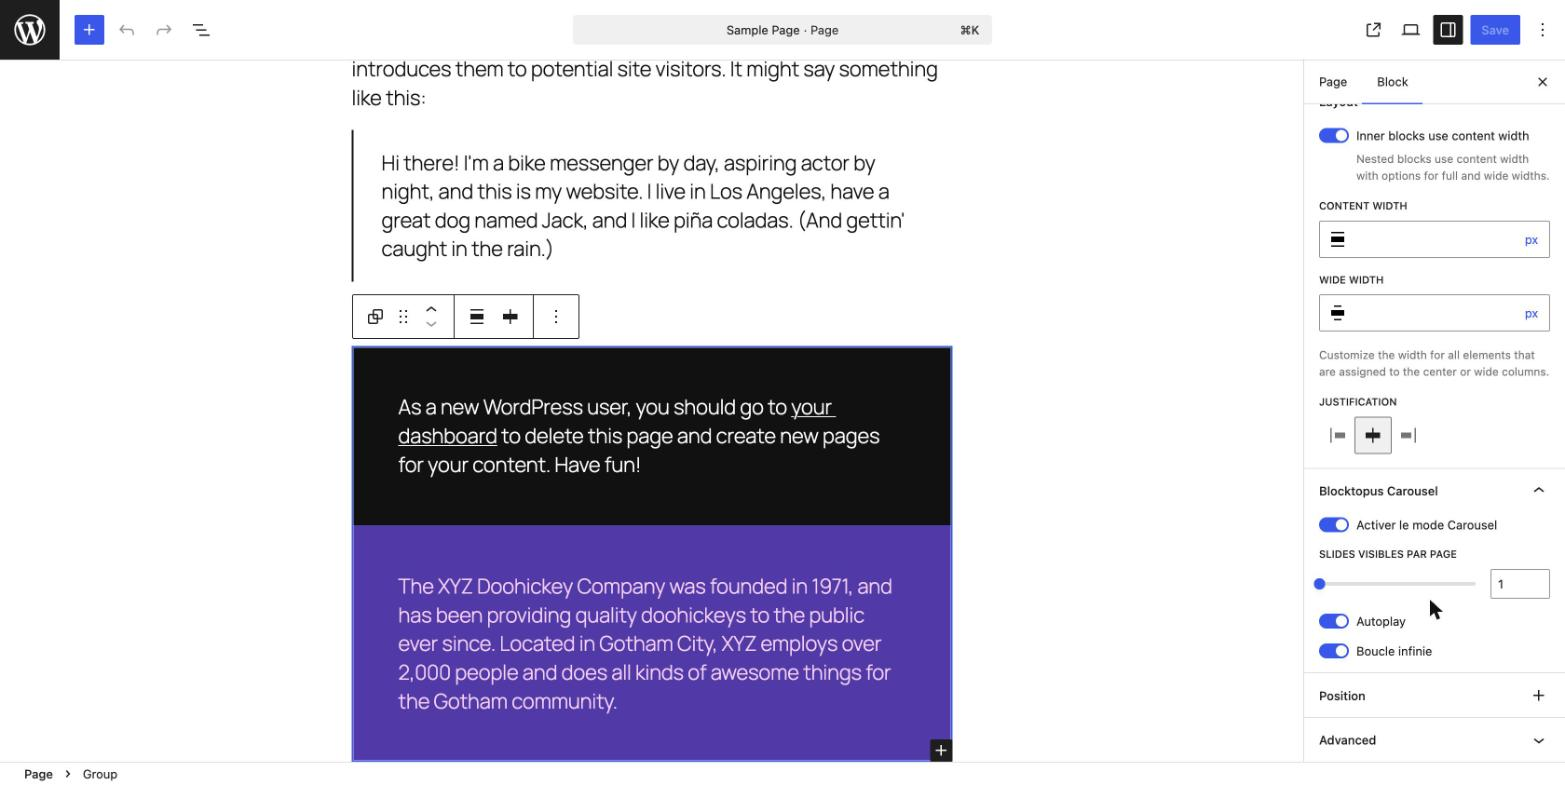
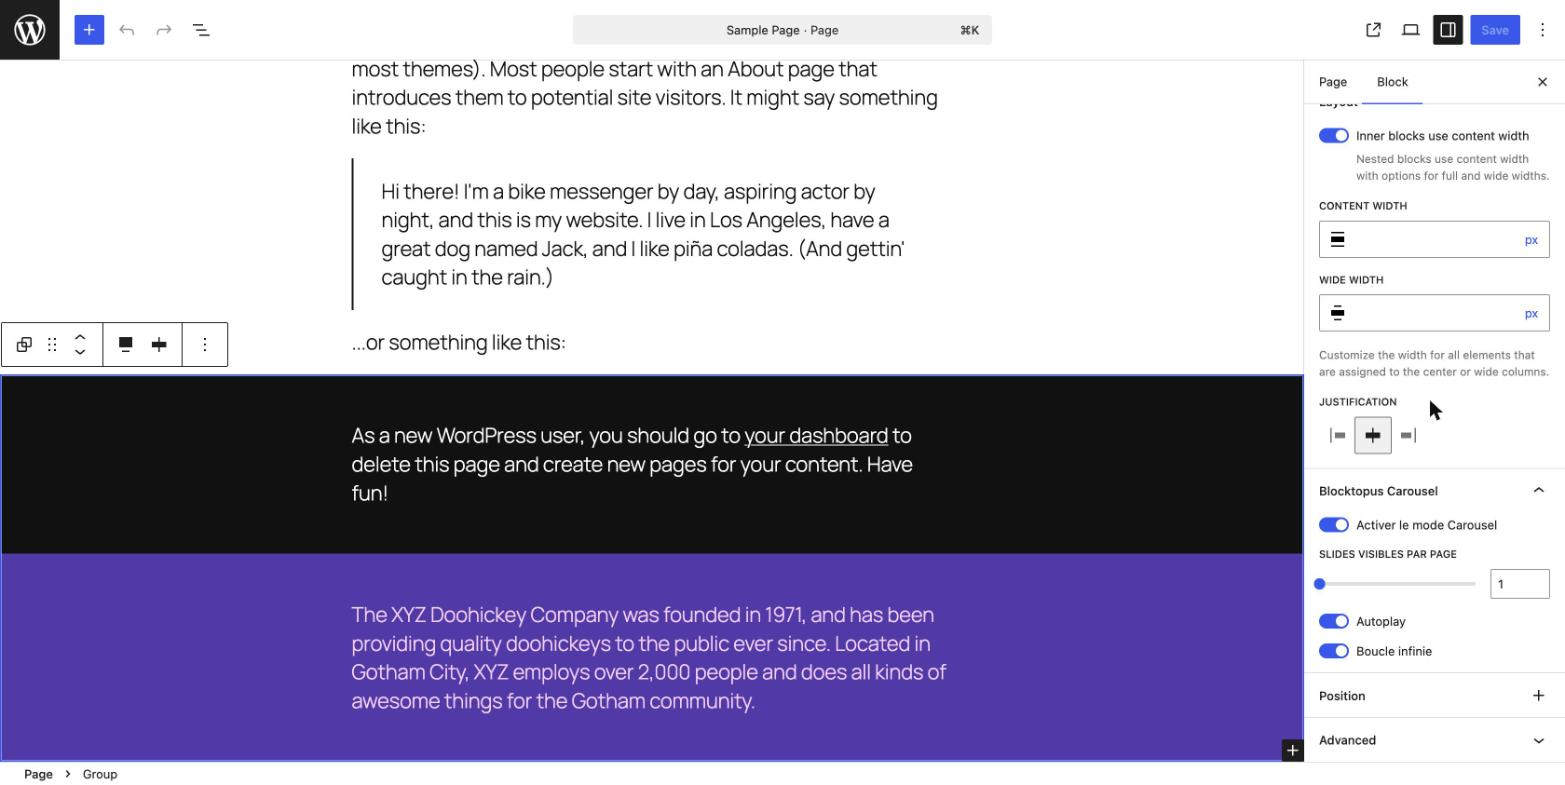
docs: reframe Blocktopus around a growing suite of modules
Drop the 'Module 1' framing in favor of positioning Carousel as the
first of a growing toolbox, with fresh WordPress.org copy and updated
backoffice/frontend screenshots for both Group and Gallery blocks.

diff --git a/README.md b/README.md
@@ -1,18 +1,20 @@
 # Blocktopus
 
-Blocktopus transforme des blocs Gutenberg natifs (`core/gallery`, `core/group`) en variantes d'affichage alternatives — sans créer de nouveaux types de bloc, et sans sortir de l'éditeur natif.
+Blocktopus est une boîte à outils grandissante de modes d'affichage pour les blocs Gutenberg natifs (`core/gallery`, `core/group`) — pas de nouveau type de bloc, pas besoin de sortir de l'éditeur natif, aucune courbe d'apprentissage.
 
 ## Concept
 
-Plutôt que d'ajouter ses propres blocs (comme le font la plupart des plugins de carousel), Blocktopus ajoute un mode d'affichage optionnel directement dans l'Inspector des blocs Galerie et Groupe existants. Le bloc reste 100% natif et éditable normalement ; seule sa sortie en front est transformée.
+La plupart des plugins de carousel/slider ajoutent leur propre bloc custom, qui vit maladroitement à côté du contenu existant, avec son JS lourd et un design qui jure avec le thème. Blocktopus fait l'inverse : on prend un bloc qu'on utilise déjà — Galerie, Groupe — on bascule un toggle dans son Inspector, et sa sortie front se transforme. Le bloc lui-même reste 100% natif et éditable ; rien ne change dans la façon d'écrire le contenu.
 
-**Module 1 (MVP) : Carousel** — transforme un bloc Galerie ou Groupe en carousel (via [Splide.js](https://splidejs.com/)), avec réglages :
+Blocktopus, c'est une pieuvre qui fait grandir de nouveaux bras avec le temps : aujourd'hui c'est Carousel, demain d'autres modes d'affichage rejoindront la même boîte à outils, chacun tout aussi simple à activer.
+
+**Carousel, disponible aujourd'hui** — transforme un bloc Galerie ou Groupe en carousel propre et minimaliste (via [Splide.js](https://splidejs.com/)), avec réglages :
 - Activer/désactiver le mode Carousel
 - Nombre de slides visibles par page
 - Autoplay
 - Boucle infinie
 
-D'autres modules (Accordéon, Masonry...) sont prévus pour plus tard. Voir `CONTEXT.md` et `docs/adr/` pour le vocabulaire du projet et les décisions d'architecture.
+D'autres bras arrivent : Accordéon, Masonry... sont sur la roadmap, chacun suivant le même principe (choisir un bloc, activer un toggle). Voir `CONTEXT.md` et `docs/adr/` pour le vocabulaire du projet et les décisions d'architecture.
 
 ## Installation dans WordPress
 
@@ -71,6 +73,12 @@ composer test           # tests PHP (PHPUnit + Brain Monkey)
 npm run test:unit       # tests JS (Jest)
 ```
 
+### Publication WordPress.org
+
+```bash
+bin/build-wporg-package.sh   # génère dist/blocktopus-<version>.zip (runtime seul)
+```
+
 ## Structure
 
 ```
@@ -80,7 +88,7 @@ includes/
 ├── class-module-registry.php           # Registre explicite des Modules
 ├── class-assets.php                    # Enqueue conditionnel des assets front
 ├── class-render.php                    # Dispatch générique du rendu (render_block)
-└── modules/carousel/                   # Module 1 : Carousel
+└── modules/carousel/                   # Module Carousel
 src/
 ├── index.js                            # Entrée éditeur (attributs génériques, contrôles Carousel)
 ├── frontend/carousel-init.js           # Init Splide.js en front
